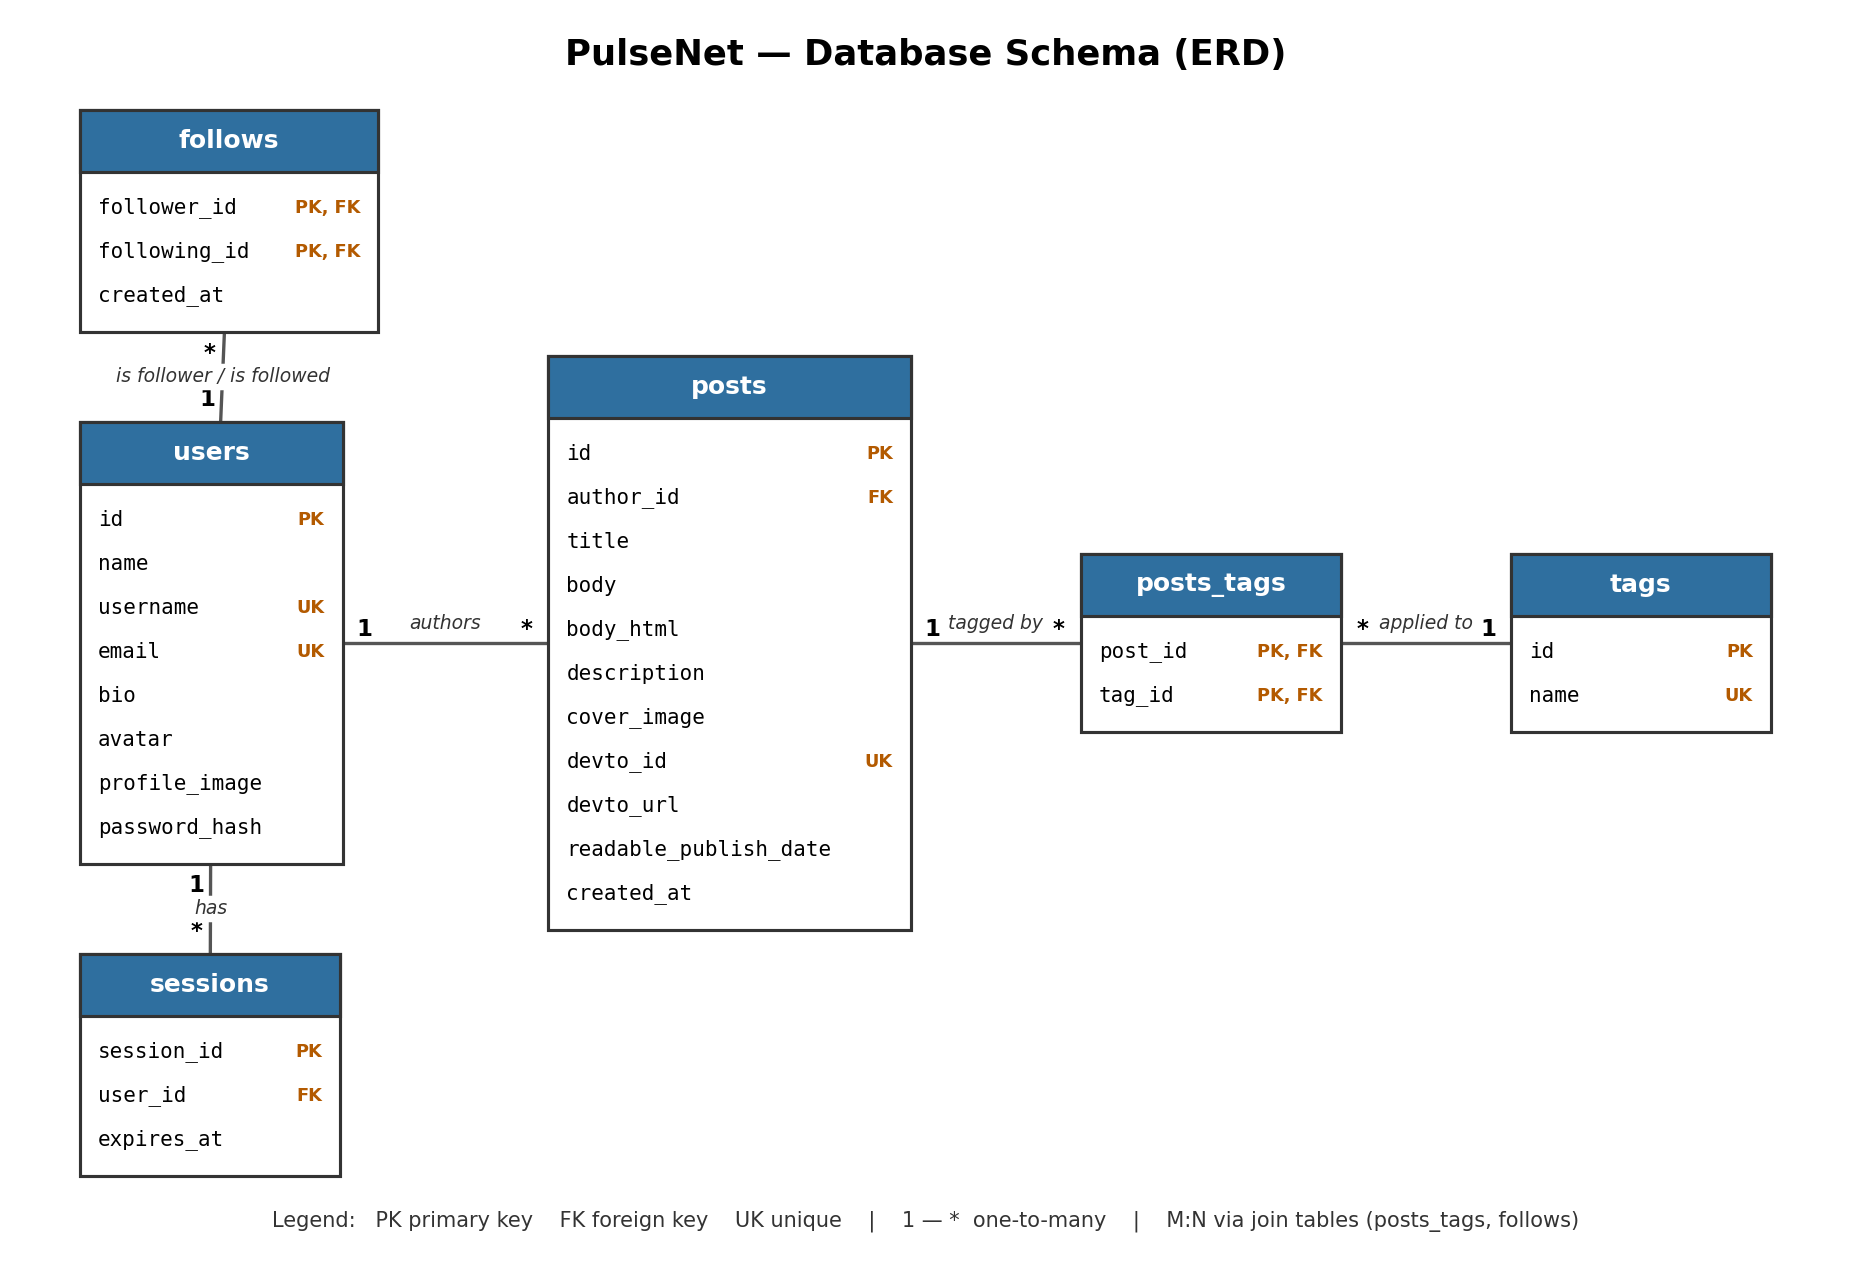
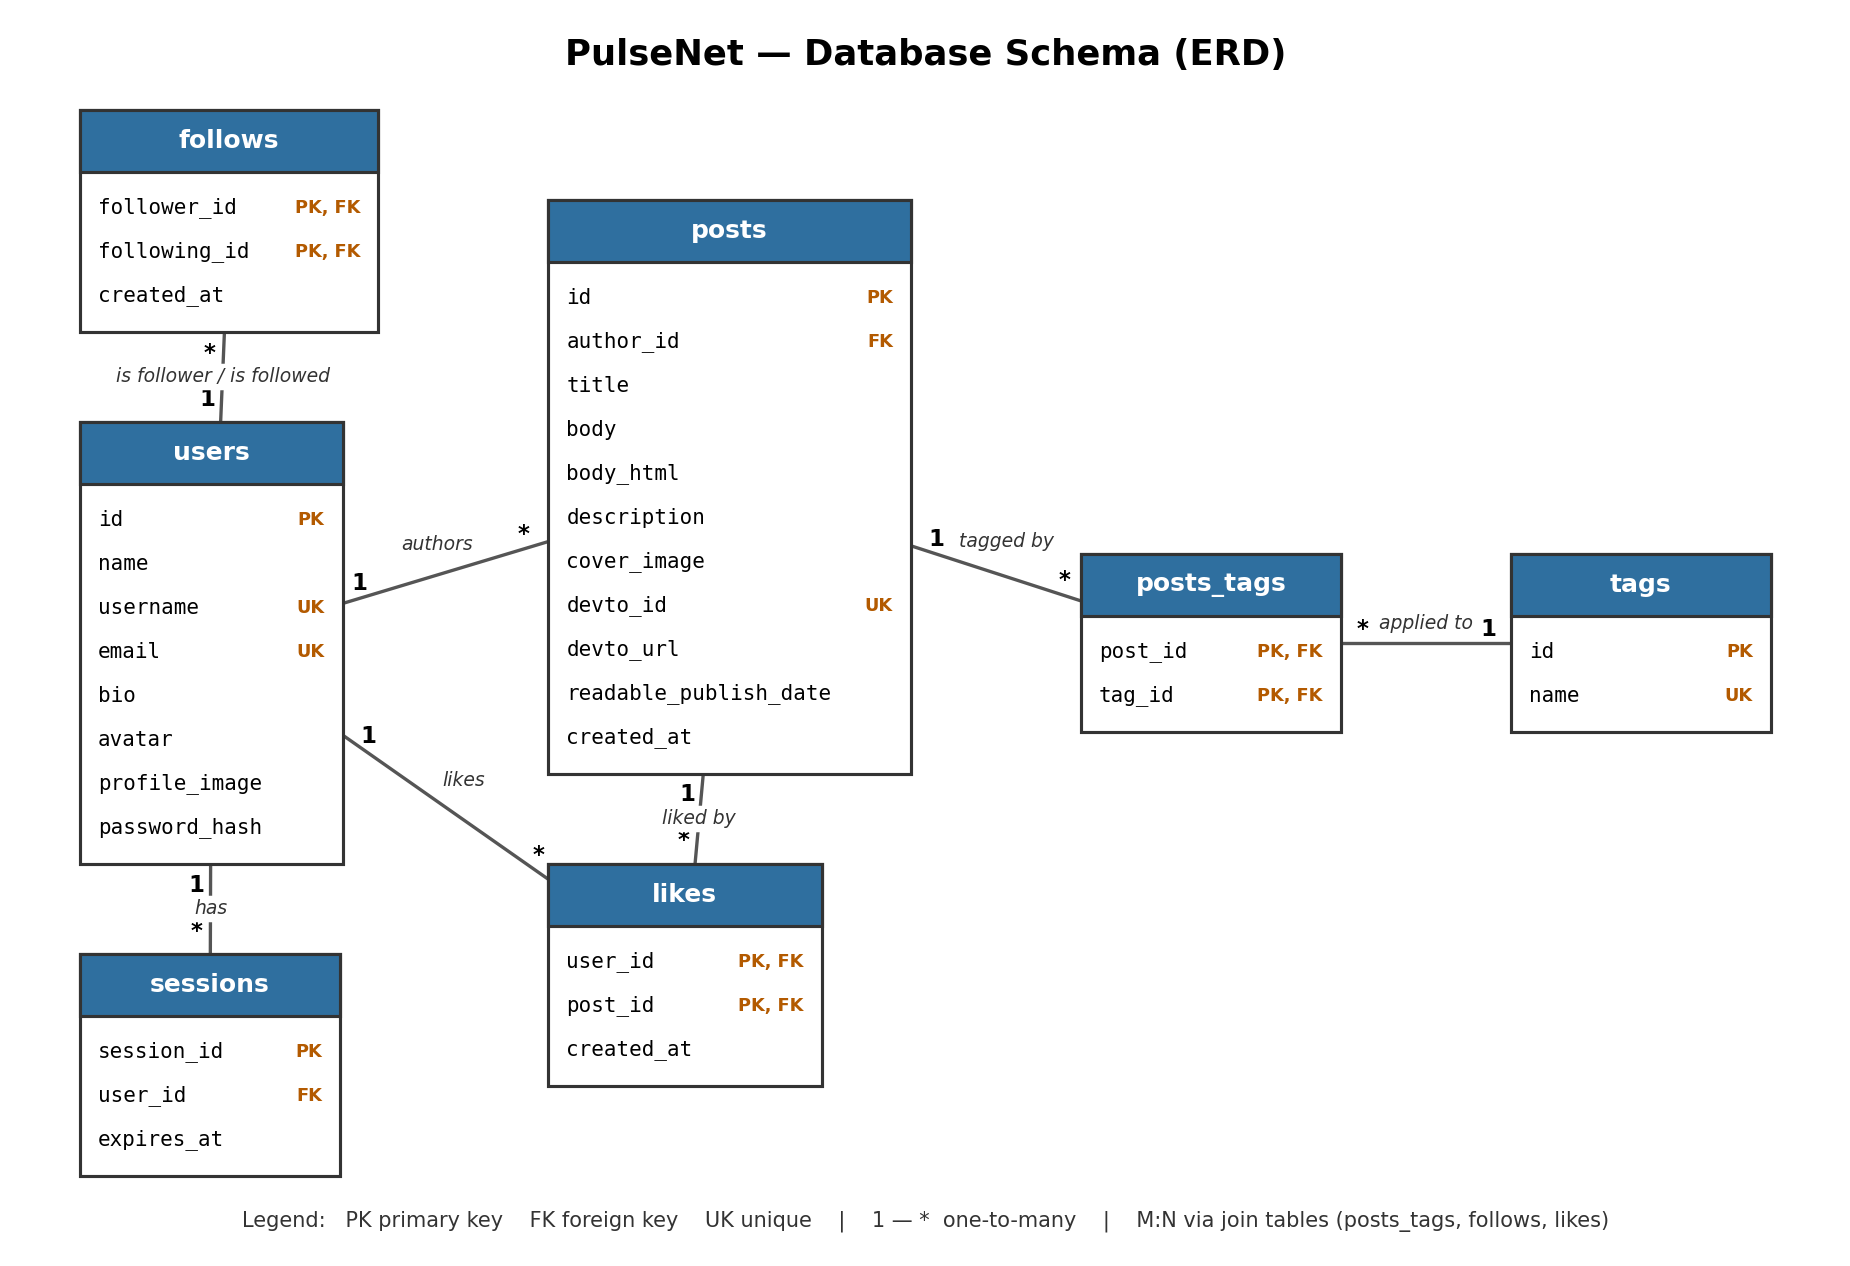
feat(db): add the likes table as migration 001
A like links a user to a post (requirement b.i). As in follows, the composite
primary key allows one like per user per post, so POST /like can use INSERT
IGNORE and liking twice is a no-op. idx_likes_post serves per-post counts,
which the primary key (user_id first) cannot. ON DELETE CASCADE on both sides
means deleting a post, today by its author and later by an admin, needs no extra
step; without it, deleting a liked post would fail on the foreign key.

The migration has no IF NOT EXISTS: schema_migrations already makes it run once,
so a likes table that is somehow there already is drift and should fail loudly.
It is a single statement, so a failure leaves nothing half-created.

The migration-folder test now also checks that every migration file is applied
and recorded, and the ERD is regenerated from schema.sql.

diff --git a/backend/tests/integration/test_migrate_db.py b/backend/tests/integration/test_migrate_db.py
@@ -283,7 +283,11 @@ class MainCliTests(MigrationsDirMixin, unittest.TestCase):
         for table in ("users", "sessions", "posts", "tags", "posts_tags", "follows"):
             with self.subTest(table=table):
                 self.assertTrue(conn.ran(f"CREATE TABLE IF NOT EXISTS {table}"))
-        self.assertEqual(self.recorded_versions(conn)[0], "000_baseline")
+        # Later migrations have no IF NOT EXISTS: a table that already exists is drift.
+        self.assertTrue(conn.ran("CREATE TABLE likes ("))
+        # Every migration file ran and was recorded, in number order.
+        everything = [m.version for m in migrate.discover_migrations(migrate.MIGRATIONS_DIR)]
+        self.assertEqual(self.recorded_versions(conn), everything)
 
 
 if __name__ == "__main__":

diff --git a/scripts/render_erd.py b/scripts/render_erd.py
@@ -40,7 +40,7 @@ from migrate import split_sql  # noqa: E402  (comment- and quote-aware SQL split
 # Where each table goes in the picture: columns left to right, each stacked top to bottom.
 LAYOUT = [
     ["follows", "users", "sessions"],
-    ["posts"],
+    ["posts", "likes"],
     ["posts_tags"],
     ["tags"],
 ]
@@ -54,6 +54,8 @@ LABELS = {
     ("posts_tags", "tag_id"): "applied to",
     ("follows", "follower_id"): "is follower",
     ("follows", "following_id"): "is followed",
+    ("likes", "user_id"): "likes",
+    ("likes", "post_id"): "liked by",
 }
 
 PNG_DIGEST_KEY = "Schema-SHA256"

diff --git a/docs/db-diagram.md b/docs/db-diagram.md
@@ -16,6 +16,8 @@ erDiagram
     tags  ||--o{ posts_tags : "applied to"
     users ||--o{ follows    : "is follower"
     users ||--o{ follows    : "is followed"
+    users ||--o{ likes      : "likes"
+    posts ||--o{ likes      : "liked by"
 
     users {
         int     id            PK
@@ -61,6 +63,12 @@ erDiagram
     follows {
         int       follower_id  PK, FK
         int       following_id PK, FK
+        timestamp created_at
+    }
+
+    likes {
+        int       user_id    PK, FK
+        int       post_id    PK, FK
         timestamp created_at
     }
 ```
